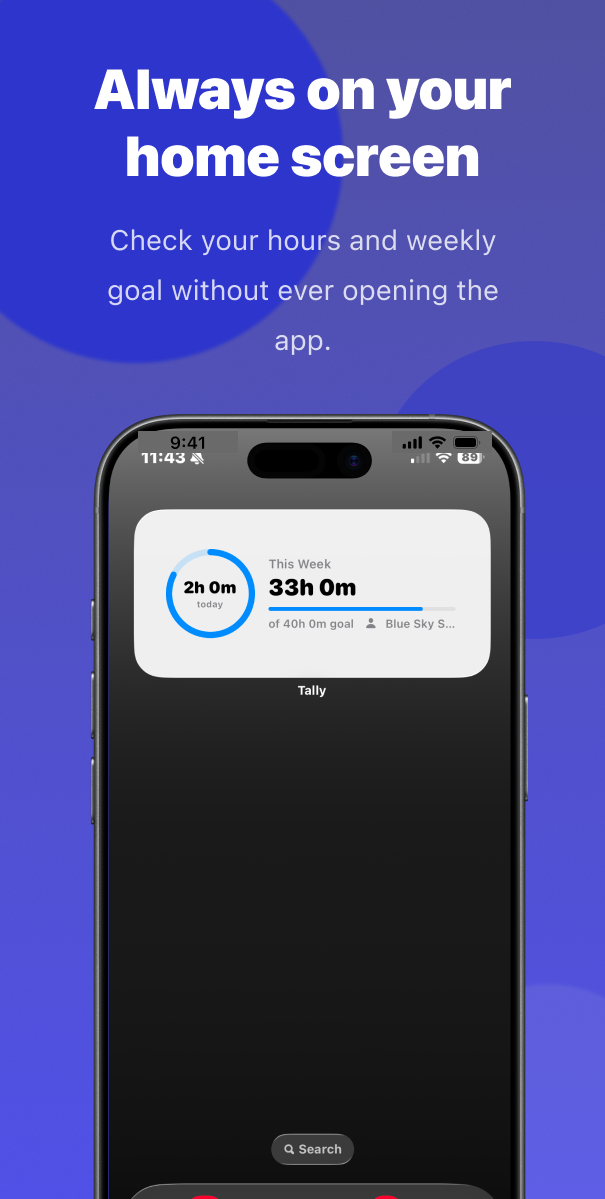
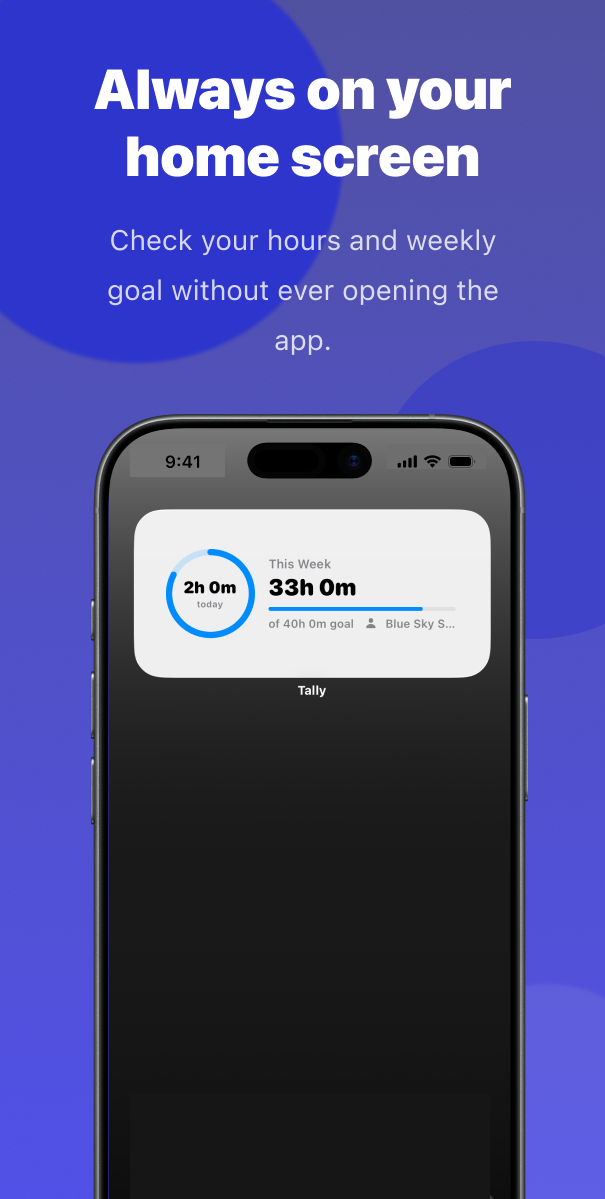
[Feature] Updated padding and layout for Landing page elements
- Adjusted padding to use `clamp` for responsive design
- Updated flex properties to wrap and center content
- Removed unnecessary overflow and scroll snap styles

Changed region(s): [[0.2083, 0.9258, 0.8033, 1.0], [0.6545, 0.3394, 0.8331, 0.4012], [0.238, 0.3703, 0.3273, 0.4012]]

diff --git a/src/pages/Landing.css b/src/pages/Landing.css
@@ -405,7 +405,7 @@
   overflow-x: auto;
   scroll-snap-type: x mandatory;
   -webkit-overflow-scrolling: touch;
-  padding: 0.5rem 1.5rem 1.25rem 2rem;
+  padding: 0.5rem 1.5rem 1.25rem clamp(1.5rem, 5vw, 5rem);
   scrollbar-width: thin;
   scrollbar-color: var(--border) transparent;
 }
@@ -602,7 +602,7 @@
   overflow-x: auto;
   scroll-snap-type: x mandatory;
   -webkit-overflow-scrolling: touch;
-  padding: 0.5rem 1.5rem 1.25rem 2rem;
+  padding: 0.5rem 1.5rem 1.25rem clamp(1.5rem, 5vw, 5rem);
   scrollbar-width: thin;
   scrollbar-color: var(--border) transparent;
 }
@@ -690,14 +690,10 @@
 
 .landing-watch-track {
   display: flex;
-  flex-wrap: nowrap;
-  gap: 0.5rem;
-  overflow-x: auto;
-  scroll-snap-type: x mandatory;
-  -webkit-overflow-scrolling: touch;
-  padding: 0.5rem 1.5rem 1.25rem 2rem;
-  scrollbar-width: thin;
-  scrollbar-color: var(--border) transparent;
+  flex-wrap: wrap;
+  justify-content: center;
+  gap: 0.75rem;
+  padding: 0.5rem 1.5rem 1.25rem;
 }
 
 .landing-watch-slide {
